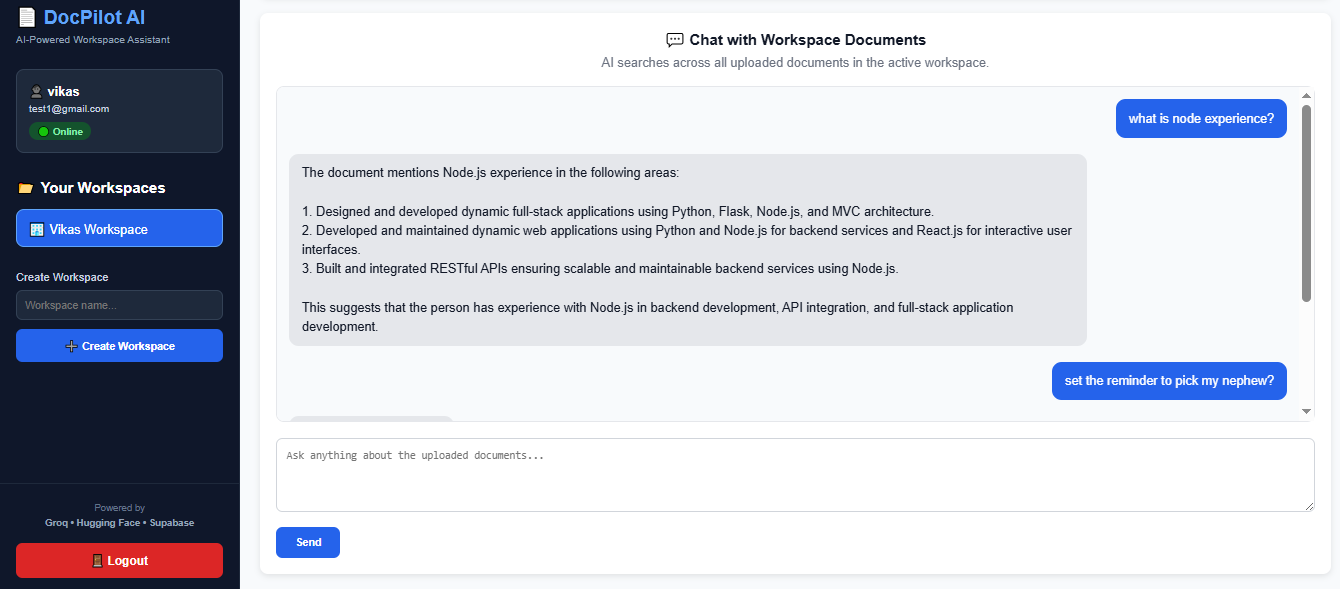
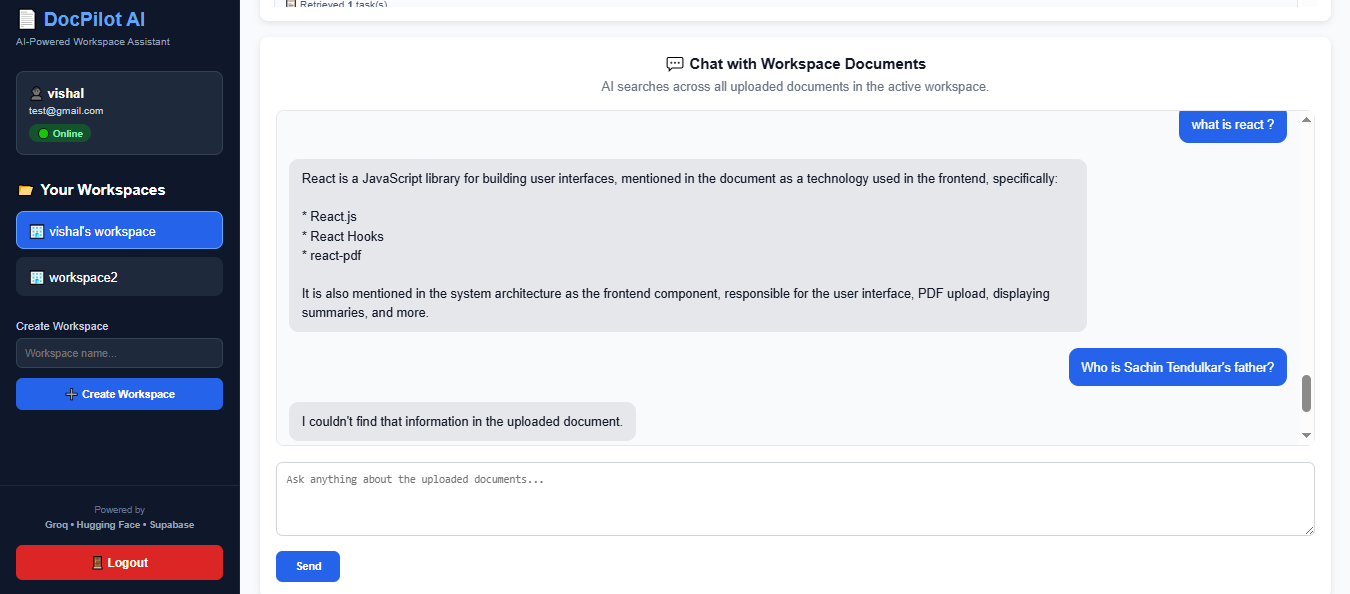
Complete DocPilot AI with RAG, Agentic AI, Tool Calling and Workspace Management

diff --git a/README.md b/README.md
@@ -283,11 +283,18 @@ docpilot-ai/
 │   │   ├── documentRoutes.js
 │   │   ├── toolRoutes.js
 │   │   └── workspaceRoutes.js
-│   │
-│   ├── services/
+
+
+
+
+├── services/ai
+        └── agentService.js
 │   │   ├── embeddingService.js
 │   │   ├── groqService.js
 │   │   ├── retrievalService.js
+│   │   
+│   │
+│   ├── services/
 │   │   ├── vectorService.js
 │   │   ├── chunkService.js
 │   │   ├── documentService.js